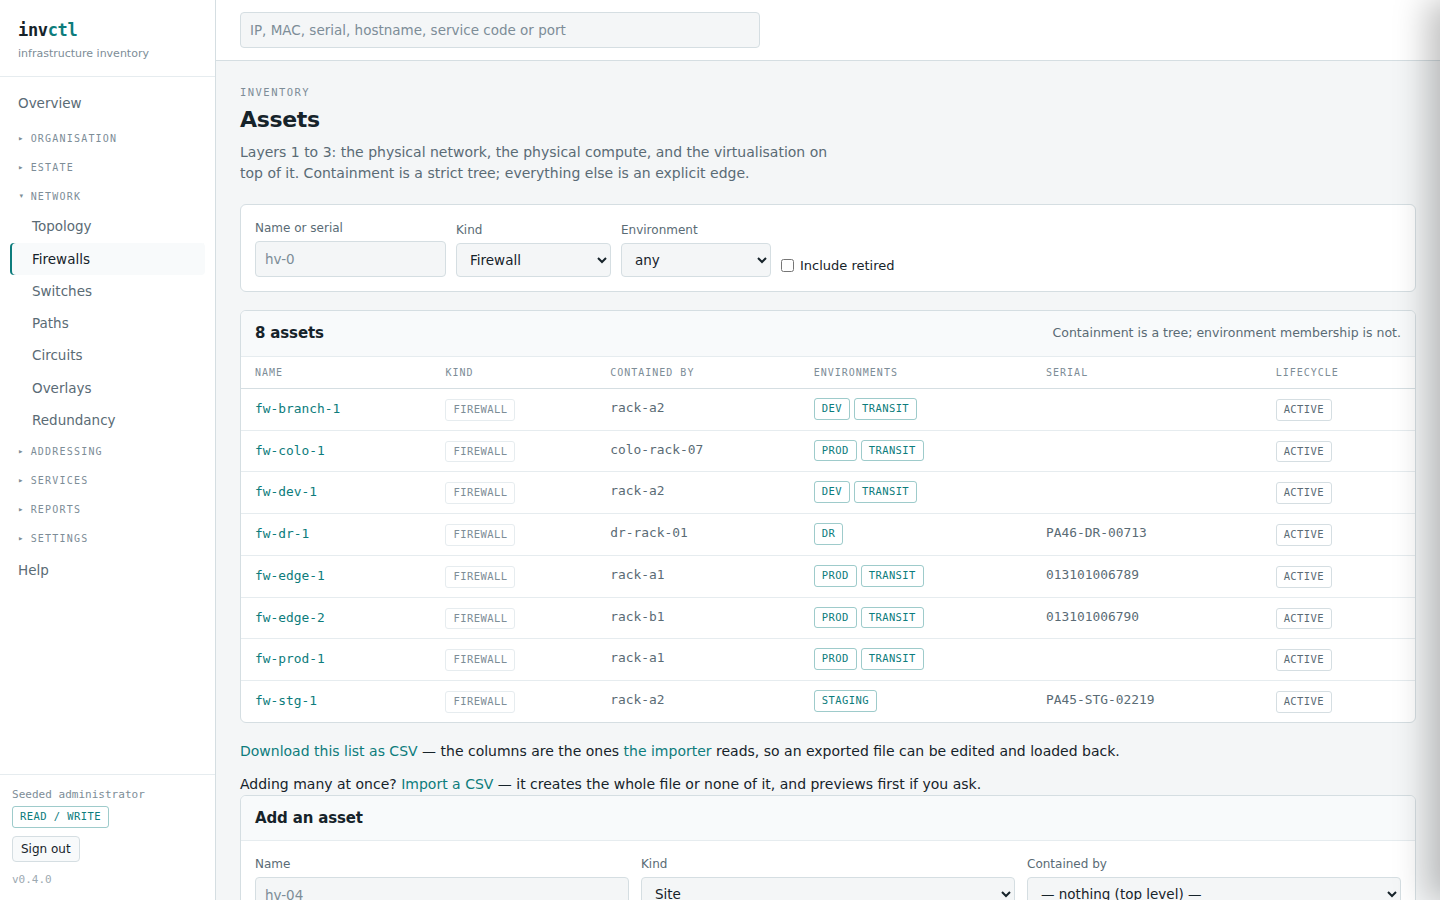
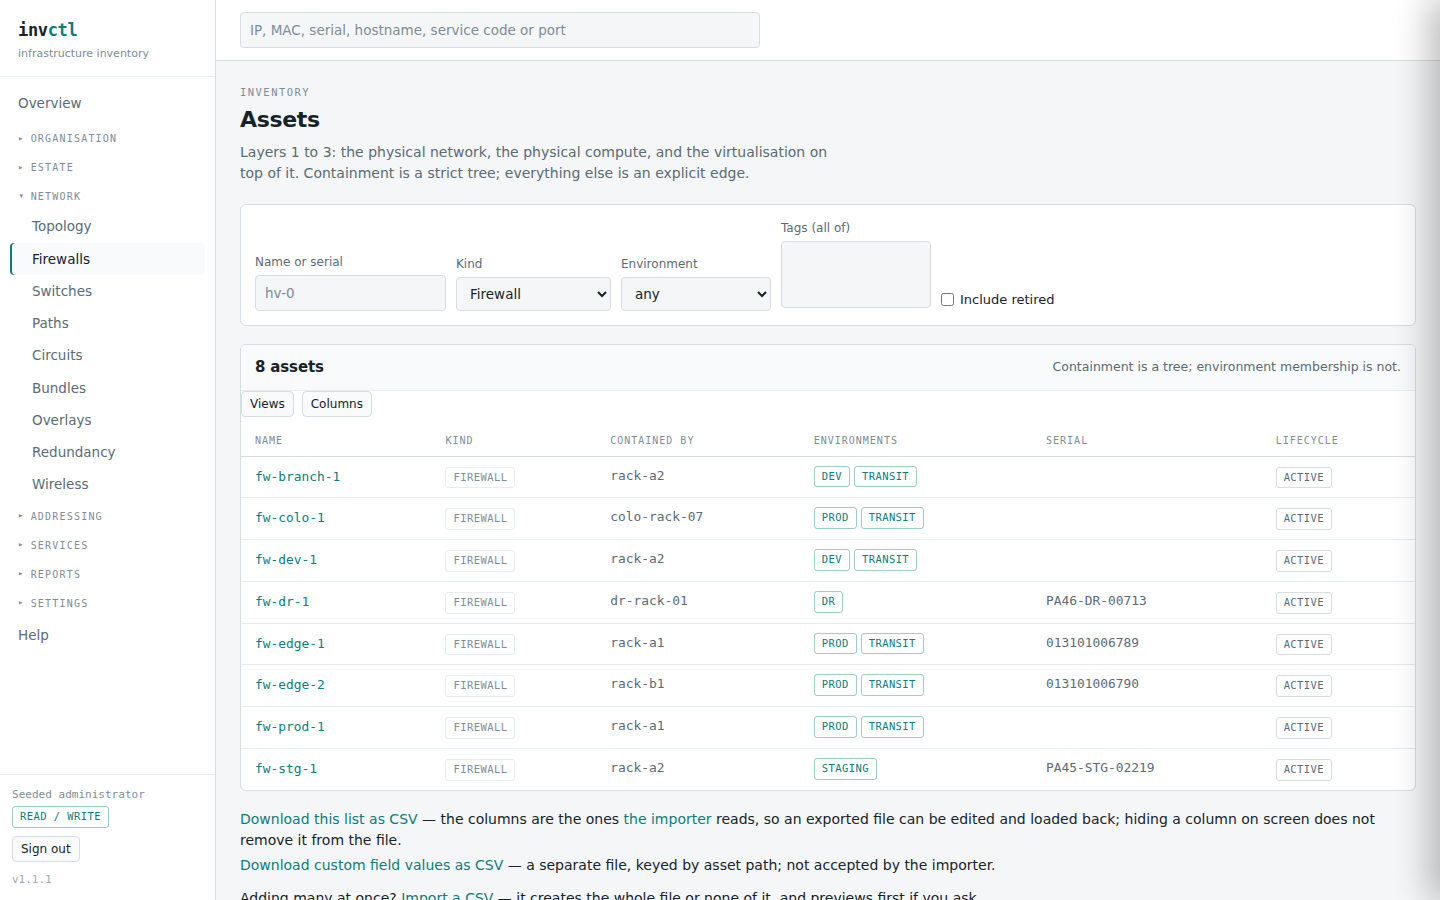
docs(manual): regenerate getting-started
Three captures re-taken against v1.1.1 on a local copy of the demo
estate, per REGENERATING.md's preconditions: fresh browser profile with
no invctl.nav.* keys, 1440x900, light, css scale, signed in first.

The findings table moved 21 -> 26 and its examples changed, so the alt
text did too -- it is what a reader gets when the image is missing and
what an auditor reads when checking a fragment they did not capture.

Added a paragraph on "credential past its own rotation rule", which is
new in 1.1.0 and is the same shape as the commercial findings already
described: nothing is breached, the inventory is holding you to a policy
you declared rather than one it invented.

THE RAIL SHOT WAS NEARLY WRONG. The prose uses it to argue that a
filtered view opens its OWN group -- "Firewalls is the page, so Network
is the open group and Estate stays shut". The first capture was the
overview with all seven groups force-opened, which shows the opposite
while being a perfectly real screenshot of a real page. Re-captured on
/assets?kind=firewall with a cleared profile, and the rail state was
verified programmatically before the shot rather than eyeballed after.

diff --git a/docs/manual/parts/00-getting-started.md b/docs/manual/parts/00-getting-started.md
@@ -26,7 +26,7 @@ pages. The rail's footer shows which you have.
 The first page is not a dashboard of counts. It is a list of **what needs a
 decision**.
 
-![The overview page. A table headed "21 findings" lists rows tagged FAULT, RISK or GAP, each with a count, a finding and an example — "past its date, 6, sw-core-1 lapsed on 2025-06-03", "too deep for the rack, 3, hv-esx-01 in rack-a2: 772mm chassis plus 75mm for cabling needs 847mm, and the cabinet has 600mm", and "project grown past what it was priced for, 2, platform: using 28 vCPU against the 24 it was priced for — nobody is in breach, the margin is eroding".](../img/getting-started-2-overview.png)
+![The overview page. A table headed "26 findings" lists rows tagged FAULT, RISK or GAP, each with a count, a finding and an example — "past its date, 6, sw-core-1 lapsed on 2025-07-13", "power convergence, 3, hv-01: inputs A and B converge on ups UPS-A — one failure takes all of them", "credential past its own rotation rule, 1, svc-sso was last rotated 2026-02-28, against a 90-day rule", and "project grown past what it was priced for, 2, platform: using 28 vCPU against the 24 it was priced for — nobody is in breach, the margin is eroding".](../img/getting-started-2-overview.png)
 
 Every row here was already computed by some other page. What this adds is the
 one place that says them together, because a finding on a page nobody opened
@@ -56,6 +56,12 @@ outgrown the assumption its price was built on, and the margin is eroding
 quietly. It sits in the same list as a lapsed certificate because it needs the
 same thing — somebody to decide — and because the person who would notice it is
 not the person watching the racks.
+
+*"Credential past its own rotation rule"* is the same shape again. Nothing has
+been breached; somebody wrote down that a credential should be rotated every
+ninety days, and the date says it has not been. The rule and the date are both
+things a person declared, so the finding is the inventory holding you to your
+own policy rather than to one it invented.
 
 Every finding links to the page that explains it. Nothing here is stored — it is
 recomputed on each visit, so it cannot go stale against the pages it summarises.
